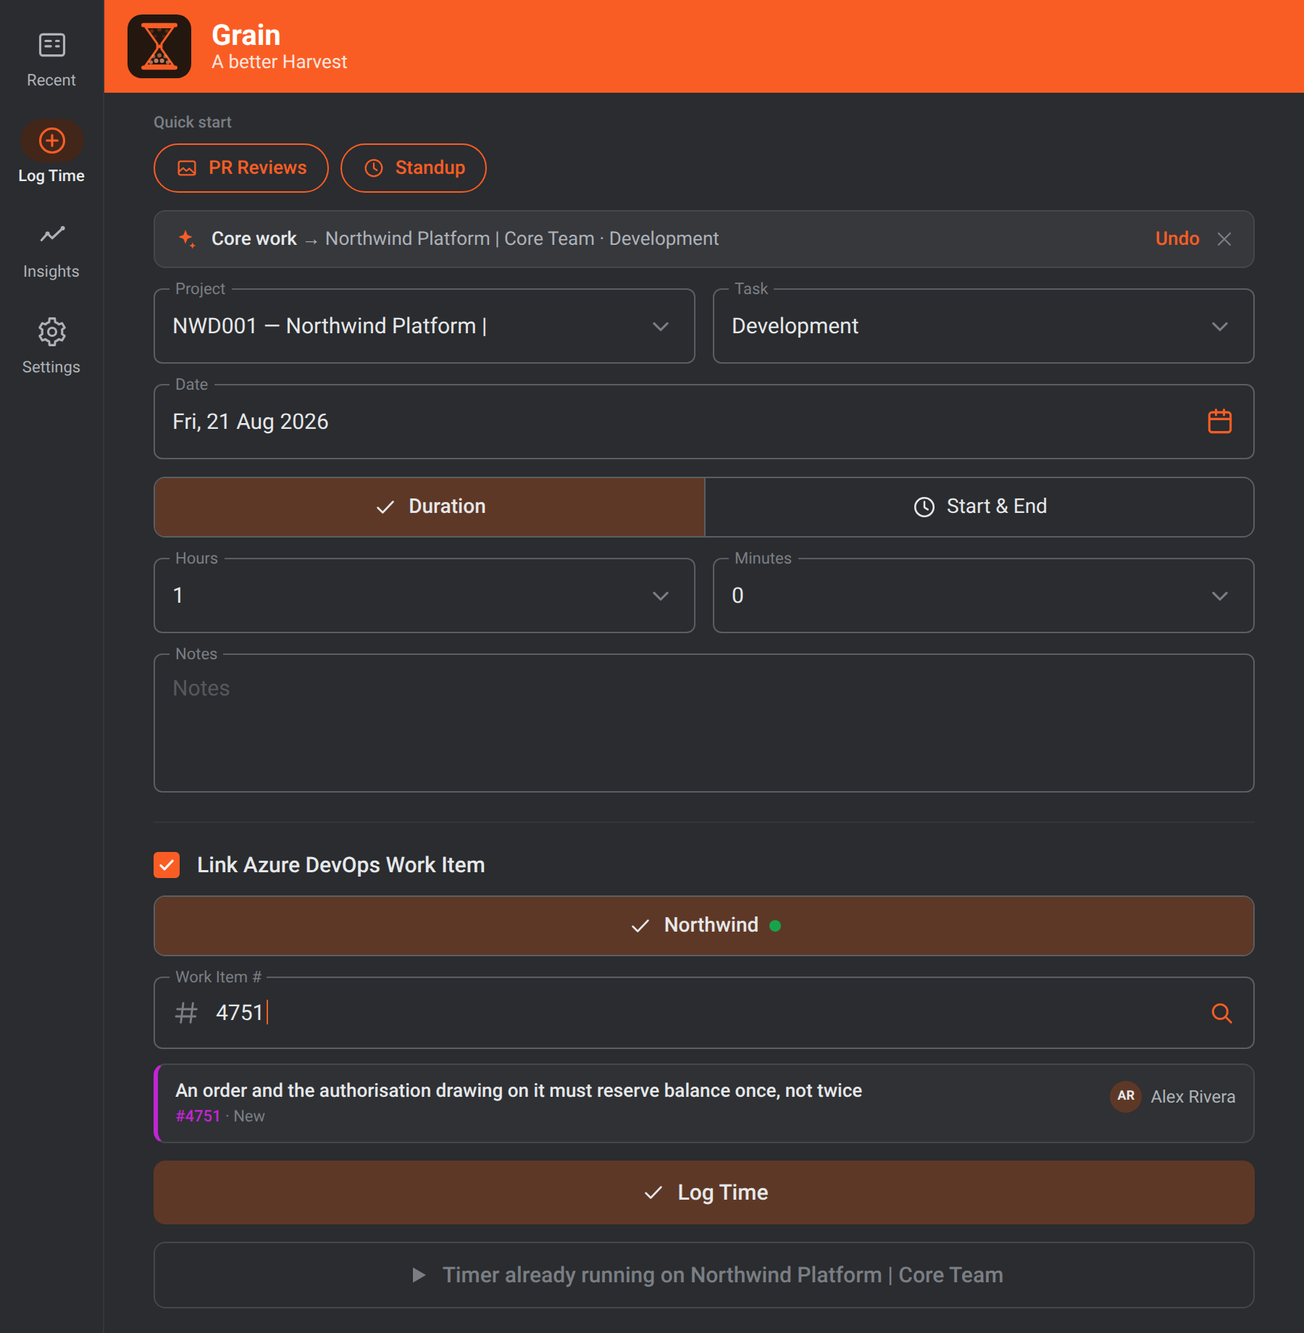
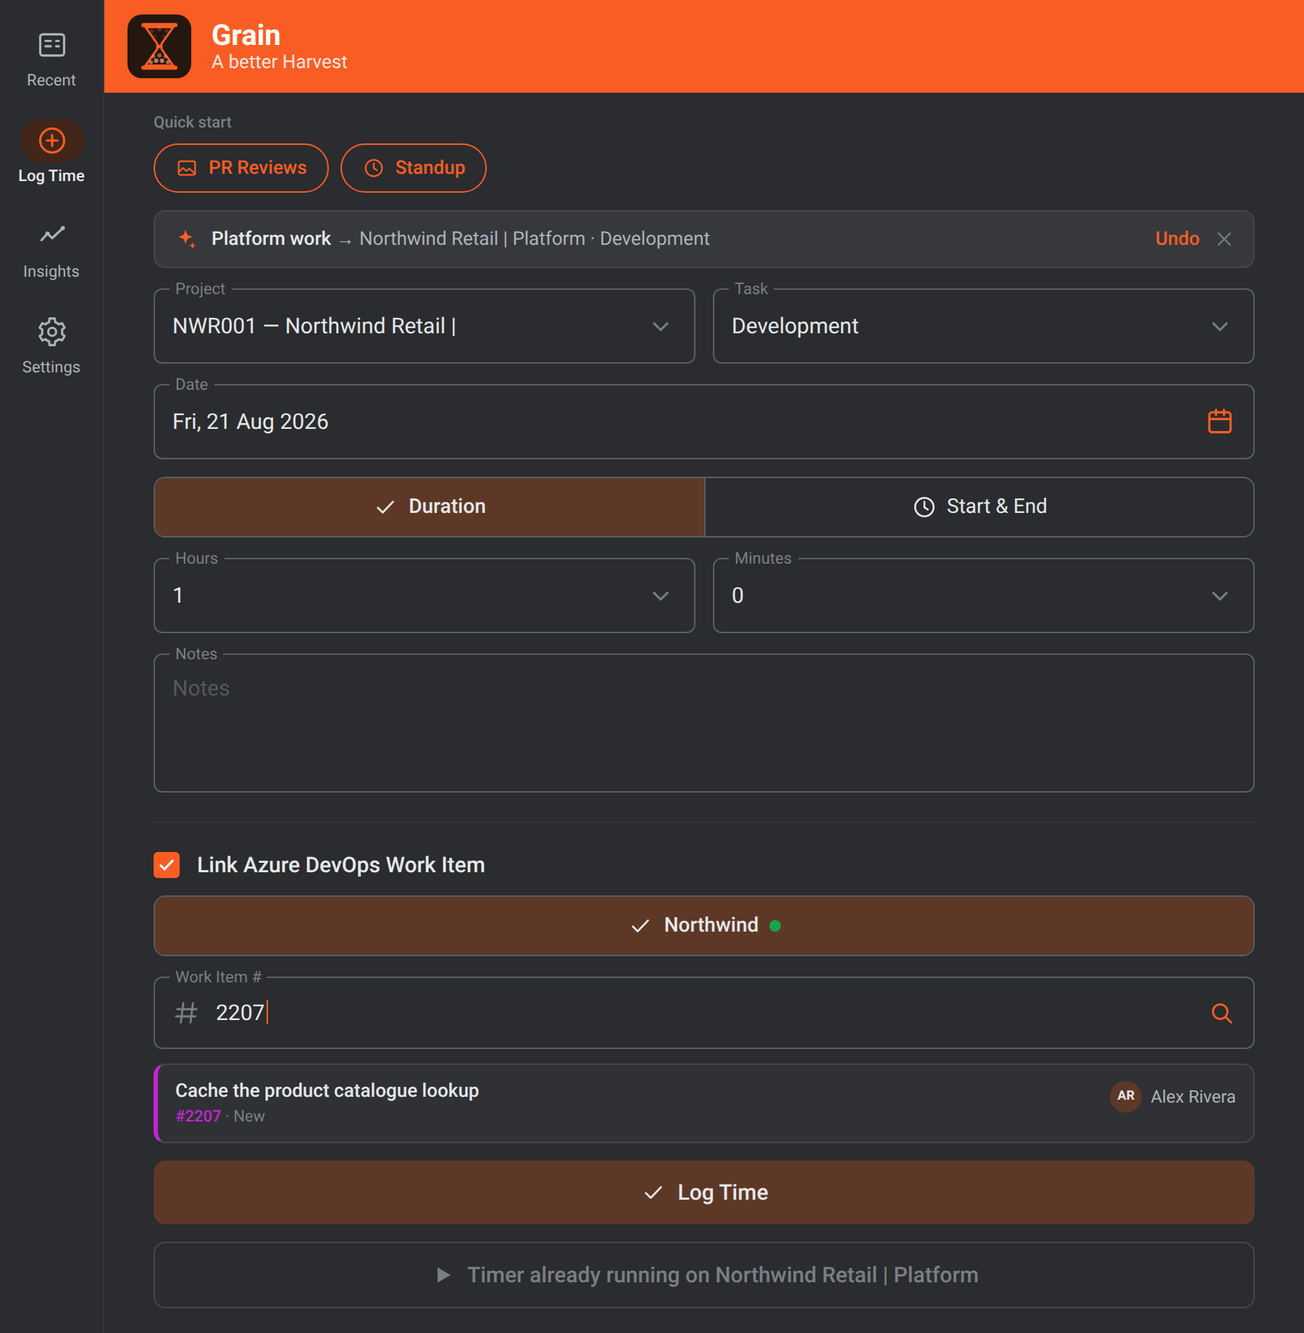
Replace the mockup data that was still traceable to a real account
The first pass paraphrased too lightly: several work item titles were the real
ones with only the client name dropped, the Harvest entry id was copied
verbatim, and the work item ids were the real ones minus a digit. The ADO
status chips, their counts, the iteration name and the week's logged hours
came straight from a capture too.

Rewrite all of it. New titles describe a generic retail app, ids are in an
unrelated range, and the picker now shows the vanilla Agile states rather than
a bespoke process (Design stays, since kDefaultExcludedStates names it in the
source). Recent and Insights also agree on the day's totals now, which they
did not before.

diff --git a/docs/mockups/recent.html b/docs/mockups/recent.html
@@ -31,11 +31,11 @@
 
         <div class="weekcard">
           <div class="days">
-            <div class="day"><div class="dow">MON</div><div class="num">17</div><div class="hrs">8h 31m</div><div class="daybar"><i style="width:100%"></i></div></div>
-            <div class="day"><div class="dow">TUE</div><div class="num">18</div><div class="hrs">9h 28m</div><div class="daybar"><i style="width:100%"></i></div></div>
-            <div class="day"><div class="dow">WED</div><div class="num">19</div><div class="hrs">10h 8m</div><div class="daybar"><i style="width:100%"></i></div></div>
-            <div class="day"><div class="dow">THU</div><div class="num">20</div><div class="hrs">11h</div><div class="daybar"><i style="width:100%"></i></div></div>
-            <div class="day sel"><div class="dow">FRI</div><div class="num">21</div><div class="hrs">3h 22m</div><div class="daybar"><i style="width:42%"></i></div></div>
+            <div class="day"><div class="dow">MON</div><div class="num">17</div><div class="hrs">8h 15m</div><div class="daybar"><i style="width:100%"></i></div></div>
+            <div class="day"><div class="dow">TUE</div><div class="num">18</div><div class="hrs">9h 05m</div><div class="daybar"><i style="width:100%"></i></div></div>
+            <div class="day"><div class="dow">WED</div><div class="num">19</div><div class="hrs">9h 40m</div><div class="daybar"><i style="width:100%"></i></div></div>
+            <div class="day"><div class="dow">THU</div><div class="num">20</div><div class="hrs">10h 30m</div><div class="daybar"><i style="width:100%"></i></div></div>
+            <div class="day sel"><div class="dow">FRI</div><div class="num">21</div><div class="hrs">6h 25m</div><div class="daybar"><i style="width:80%"></i></div></div>
             <div class="day off"><div class="dow">SAT</div><div class="num">22</div><div class="hrs">–</div><div class="daybar"></div></div>
             <div class="day off"><div class="dow">SUN</div><div class="num">23</div><div class="hrs">–</div><div class="daybar"></div></div>
           </div>
@@ -49,24 +49,24 @@
                 </svg>
               </div>
               <div class="beside">
-                <div class="tot">42h 29m</div>
+                <div class="tot">43h 55m</div>
                 <div class="of">of 40h</div>
               </div>
             </div>
             <div class="cap">THIS WEEK</div>
-            <div class="help">+2h 29m over</div>
+            <div class="help">+3h 55m over</div>
           </div>
         </div>
 
         <div class="card">
           <div class="pill running">2m<span class="badge"><svg class="i i-14" style="stroke-width:0"><use href="#ic-play-solid"/></svg></span></div>
           <div class="entry">
-            <div class="head"><span class="code cat-green">CORE</span><span class="task">Development</span></div>
-            <div class="notes">Northwind Azure DevOps Task #4732</div>
+            <div class="head"><span class="code cat-green">PLAT</span><span class="task">Development</span></div>
+            <div class="notes">Northwind Azure DevOps Task #2233</div>
             <div class="wichip">
               <div class="t">
-                <div class="title">Add retry handling to the settlement webhook receiver</div>
-                <div class="meta"><b>#4732</b> · <span class="st">In Progress</span> · Task</div>
+                <div class="title">Split the report export into a background job</div>
+                <div class="meta"><b>#2233</b> · <span class="st">Active</span> · Task</div>
               </div>
               <span class="avatar">AR</span>
               <span class="iconbtn" style="width:18px;height:18px;color:var(--text3)"><svg class="i i-14"><use href="#ic-external"/></svg></span>
@@ -81,7 +81,7 @@
         <div class="card">
           <div class="pill">45m</div>
           <div class="entry">
-            <div class="head"><span class="code cat-green">CORE</span><span class="task">Development</span></div>
+            <div class="head"><span class="code cat-green">PLAT</span><span class="task">Development</span></div>
             <div class="notes">PR Reviews</div>
           </div>
           <div class="actions">
@@ -93,12 +93,12 @@
         <div class="card">
           <div class="pill">35m</div>
           <div class="entry">
-            <div class="head"><span class="code cat-green">CORE</span><span class="task">Development</span></div>
-            <div class="notes">Northwind Azure DevOps User Story #4813</div>
+            <div class="head"><span class="code cat-green">PLAT</span><span class="task">Development</span></div>
+            <div class="notes">Northwind Azure DevOps User Story #2184</div>
             <div class="wichip">
               <div class="t">
-                <div class="title">Adopt the service layer as the default home for new backend business logic</div>
-                <div class="meta"><b>#4813</b> · <span class="st">In Progress</span> · User Story</div>
+                <div class="title">Improve checkout performance</div>
+                <div class="meta"><b>#2184</b> · <span class="st">Active</span> · User Story</div>
               </div>
               <span class="avatar">AR</span>
               <span class="iconbtn" style="width:18px;height:18px;color:var(--text3)"><svg class="i i-14"><use href="#ic-external"/></svg></span>
@@ -113,12 +113,12 @@
         <div class="card">
           <div class="pill">45m</div>
           <div class="entry">
-            <div class="head"><span class="code cat-green">CORE</span><span class="task">Development</span></div>
-            <div class="notes">Northwind Azure DevOps Task #4751</div>
+            <div class="head"><span class="code cat-green">PLAT</span><span class="task">Development</span></div>
+            <div class="notes">Northwind Azure DevOps Task #2207</div>
             <div class="wichip new">
               <div class="t">
-                <div class="title">An order and the authorisation drawing on it must reserve balance once, not twice</div>
-                <div class="meta"><b>#4751</b> · <span class="st">New</span> · Task</div>
+                <div class="title">Cache the product catalogue lookup</div>
+                <div class="meta"><b>#2207</b> · <span class="st">New</span> · Task</div>
               </div>
               <span class="avatar">AR</span>
               <span class="iconbtn" style="width:18px;height:18px;color:var(--text3)"><svg class="i i-14"><use href="#ic-external"/></svg></span>
@@ -133,8 +133,8 @@
         <div class="card">
           <div class="pill">15m</div>
           <div class="entry">
-            <div class="head"><span class="code cat-green">CORE</span><span class="task">Meetings</span></div>
-            <div class="notes">Release Planning | Northwind</div>
+            <div class="head"><span class="code cat-green">PLAT</span><span class="task">Meetings</span></div>
+            <div class="notes">Sprint planning</div>
           </div>
           <div class="actions">
             <span class="iconbtn"><svg class="i i-18"><use href="#ic-play"/></svg></span>
@@ -145,7 +145,7 @@
         <div class="card">
           <div class="pill">30m</div>
           <div class="entry">
-            <div class="head"><span class="code cat-cyan">SUPP</span><span class="task">Meetings</span></div>
+            <div class="head"><span class="code cat-cyan">HELP</span><span class="task">Meetings</span></div>
             <div class="notes">Support handover</div>
           </div>
           <div class="actions">
@@ -158,11 +158,11 @@
 
       <div class="dailybar">
         <div class="row">
-          <span class="tot">Total: 3h 22m</span>
-          <span class="exp">Expected: 3h 36m</span>
-          <span class="rem">4h 38m remaining</span>
+          <span class="tot">Total: 6h 25m</span>
+          <span class="exp">Expected: 6h 45m</span>
+          <span class="rem">1h 35m remaining</span>
         </div>
-        <div class="track"><i style="width:42%"></i><span class="tick" style="left:45%"></span></div>
+        <div class="track"><i style="width:80%"></i><span class="tick" style="left:84%"></span></div>
       </div>
     </div>
   </div>

diff --git a/docs/mockups/work-item-picker.html b/docs/mockups/work-item-picker.html
@@ -25,7 +25,7 @@
         <div class="eyebrow">Quick start</div>
         <div class="chiprow"><span class="tchip"><svg class="i i-16"><use href="#ic-image"/></svg>PR Reviews</span></div>
         <div class="pair">
-          <div class="field"><span class="lab">Project</span><span class="val">NWD001 — Northwind Platform |</span><svg class="i i-22" style="color:var(--text3)"><use href="#ic-caret"/></svg></div>
+          <div class="field"><span class="lab">Project</span><span class="val">NWR001 — Northwind Retail |</span><svg class="i i-22" style="color:var(--text3)"><use href="#ic-caret"/></svg></div>
           <div class="field"><span class="lab">Task</span><span class="val">Development</span><svg class="i i-22" style="color:var(--text3)"><use href="#ic-caret"/></svg></div>
         </div>
         <div class="field"><span class="lab">Date</span><span class="val">Fri, 21 Aug 2026</span><svg class="i i-22" style="color:var(--brand)"><use href="#ic-calendar"/></svg></div>
@@ -48,18 +48,15 @@
         <div class="search"><svg class="i i-20"><use href="#ic-search"/></svg>Search id, title, type, state or tag</div>
 
         <div class="states">
-          <span class="state on">All statuses <span class="n">48</span></span>
-          <span class="state">Awaiting PR <span class="n">13</span></span>
-          <span class="state">In Progress <span class="n">6</span></span>
-          <span class="state">New <span class="n">17</span></span>
-          <span class="state">QA Testing <span class="n">7</span></span>
-          <span class="state">Ready <span class="n">2</span></span>
-          <span class="state">Ready for QA <span class="n">3</span></span>
-          <span class="state">Design <span class="n">612</span></span>
+          <span class="state on">All statuses <span class="n">24</span></span>
+          <span class="state">New <span class="n">9</span></span>
+          <span class="state">Active <span class="n">11</span></span>
+          <span class="state">Resolved <span class="n">4</span></span>
+          <span class="state">Design <span class="n">137</span></span>
         </div>
 
         <div style="display:flex;align-items:center;gap:12px">
-          <span class="count">48 of 48 assigned to you · 612 Design hidden</span>
+          <span class="count">24 of 24 assigned to you · 137 Design hidden</span>
           <span class="viewtoggle">
             <div class="on"><svg class="i i-16"><use href="#ic-tree"/></svg>Tree</div>
             <div><svg class="i i-16"><use href="#ic-list"/></svg>Flat</div>
@@ -68,24 +65,24 @@
 
         <div style="margin-top:8px">
           <div class="wi">
-            <div class="title">Settle partner transactions end to end</div>
-            <div class="meta">#4179 &nbsp;User Story · In Progress · PI Planning 2, Refinement</div>
+            <div class="title">Improve checkout performance</div>
+            <div class="meta">#2184 &nbsp;User Story · Active · Sprint 14</div>
           </div>
           <div class="wi child">
-            <div class="title">Mark the order complete when the partner line item finalises</div>
-            <div class="meta">#4548 &nbsp;Task · New</div>
+            <div class="title">Add pagination to the customer list endpoint</div>
+            <div class="meta">#2201 &nbsp;Task · New</div>
           </div>
           <div class="wi child">
-            <div class="title">Release the over-held wallet funds when the order-complete webhook lands</div>
-            <div class="meta">#4839 &nbsp;Task · New</div>
+            <div class="title">Cache the product catalogue lookup</div>
+            <div class="meta">#2207 &nbsp;Task · New</div>
           </div>
           <div class="wi child">
-            <div class="title">Webhook receiver — single endpoint, signature check and event store</div>
-            <div class="meta">#4843 &nbsp;Task · In Progress</div>
+            <div class="title">Split the report export into a background job</div>
+            <div class="meta">#2233 &nbsp;Task · Active</div>
           </div>
           <div class="wi child">
-            <div class="title">Consignment and consignment_service webhook handlers</div>
-            <div class="meta">#4844 &nbsp;Task · In Progress</div>
+            <div class="title">Show a friendlier error when an upload times out</div>
+            <div class="meta">#2251 &nbsp;Task · Active</div>
           </div>
         </div>
 

diff --git a/docs/mockups/settings-rules.html b/docs/mockups/settings-rules.html
@@ -69,9 +69,9 @@
       <div class="rulecard">
         <svg class="i i-18" style="color:var(--text4)"><use href="#ic-drag"/></svg>
         <span class="t">
-          <span class="n">Core work</span>
-          <span class="c">Area path is under path "Northwind\Core"</span>
-          <span class="m">→ Northwind Platform | Core Team · Development</span>
+          <span class="n">Platform work</span>
+          <span class="c">Area path is under path "Northwind\Platform"</span>
+          <span class="m">→ Northwind Retail | Platform · Development</span>
         </span>
         <span class="toggle"><i></i></span>
         <svg class="i i-18" style="color:var(--text2)"><use href="#ic-pencil"/></svg>
@@ -81,8 +81,8 @@
         <svg class="i i-18" style="color:var(--text4)"><use href="#ic-drag"/></svg>
         <span class="t">
           <span class="n">Support</span>
-          <span class="c">Area path is under path "Northwind\Support" · Type is one of Bug, Issue</span>
-          <span class="m">→ Northwind Platform | Support Team · Development</span>
+          <span class="c">Area path is under path "Northwind\Helpdesk" · Type is one of Bug, Issue</span>
+          <span class="m">→ Northwind Retail | Helpdesk · Development</span>
         </span>
         <span class="toggle"><i></i></span>
         <svg class="i i-18" style="color:var(--text2)"><use href="#ic-pencil"/></svg>
@@ -102,7 +102,7 @@
         <span class="ic" style="width:26px;height:26px;border-radius:6px;display:grid;place-content:center;background:var(--brandTint);color:var(--brand)"><svg class="i i-16"><use href="#ic-image"/></svg></span>
         <span class="t">
           <span class="n">PR Reviews</span>
-          <span class="m">Northwind Platform | Core Team · Development</span>
+          <span class="m">Northwind Retail | Platform · Development</span>
           <span class="c">PR Reviews</span>
         </span>
         <span class="toggle"><i></i></span>
@@ -114,7 +114,7 @@
         <span class="ic" style="width:26px;height:26px;border-radius:6px;display:grid;place-content:center;background:var(--surface3);color:var(--stateDone)"><svg class="i i-16"><use href="#ic-clock"/></svg></span>
         <span class="t">
           <span class="n">Standup</span>
-          <span class="m">Northwind Platform | Core Team · Meetings</span>
+          <span class="m">Northwind Retail | Platform · Meetings</span>
           <span class="c">Daily standup</span>
         </span>
         <span class="toggle"><i></i></span>

diff --git a/docs/mockups/log-time.html b/docs/mockups/log-time.html
@@ -29,13 +29,13 @@
 
       <div class="banner">
         <svg class="i i-18" style="color:var(--brand)"><use href="#ic-sparkle"/></svg>
-        <span class="msg"><b>Core work</b> → Northwind Platform | Core Team · Development</span>
+        <span class="msg"><b>Platform work</b> → Northwind Retail | Platform · Development</span>
         <span class="undo">Undo</span>
         <svg class="i i-16" style="color:var(--text3)"><use href="#ic-close"/></svg>
       </div>
 
       <div class="pair">
-        <div class="field"><span class="lab">Project</span><span class="val">NWD001 — Northwind Platform |</span><svg class="i i-22" style="color:var(--text3)"><use href="#ic-caret"/></svg></div>
+        <div class="field"><span class="lab">Project</span><span class="val">NWR001 — Northwind Retail |</span><svg class="i i-22" style="color:var(--text3)"><use href="#ic-caret"/></svg></div>
         <div class="field"><span class="lab">Task</span><span class="val">Development</span><svg class="i i-22" style="color:var(--text3)"><use href="#ic-caret"/></svg></div>
       </div>
 
@@ -65,20 +65,20 @@
       <div class="field">
         <span class="lab">Work Item #</span>
         <svg class="i i-20" style="color:var(--text3)"><use href="#ic-hash"/></svg>
-        <span class="val">4751<span class="caret"></span></span>
+        <span class="val">2207<span class="caret"></span></span>
         <svg class="i i-20" style="color:var(--brand)"><use href="#ic-search"/></svg>
       </div>
 
       <div class="preview" style="border-left-color:var(--stateNew)">
         <div class="t">
-          <div class="title">An order and the authorisation drawing on it must reserve balance once, not twice</div>
-          <div class="meta"><b style="color:var(--stateNew)">#4751</b> · New</div>
+          <div class="title">Cache the product catalogue lookup</div>
+          <div class="meta"><b style="color:var(--stateNew)">#2207</b> · New</div>
         </div>
         <span class="who"><span class="avatar">AR</span>Alex Rivera</span>
       </div>
 
       <div class="btn filled"><svg class="i i-18"><use href="#ic-check"/></svg>Log Time</div>
-      <div class="btn ghost"><svg class="i i-18"><use href="#ic-play-solid"/></svg>Timer already running on Northwind Platform | Core Team</div>
+      <div class="btn ghost"><svg class="i i-18"><use href="#ic-play-solid"/></svg>Timer already running on Northwind Retail | Platform</div>
 
       <div style="height:20px"></div>
     </div></div></div>

diff --git a/docs/mockups/edit-time.html b/docs/mockups/edit-time.html
@@ -20,11 +20,11 @@
         <span class="pill running" style="width:38px;height:38px;flex:0 0 38px;font-size:11px">5m<span class="badge" style="width:13px;height:13px"><svg class="i i-14" style="stroke-width:0"><use href="#ic-play-solid"/></svg></span></span>
         <div>
           <div class="lab">TIMER RUNNING</div>
-          <div class="id">#2993416935 · Fri 21 Aug 2026</div>
+          <div class="id">#1234567890 · Fri 21 Aug 2026</div>
         </div>
       </div>
 
-      <div class="field"><span class="lab">Project</span><span class="val">NWD001 — Northwind Platform | Core Team</span><svg class="i i-22" style="color:var(--text3)"><use href="#ic-caret"/></svg></div>
+      <div class="field"><span class="lab">Project</span><span class="val">NWR001 — Northwind Retail | Platform</span><svg class="i i-22" style="color:var(--text3)"><use href="#ic-caret"/></svg></div>
       <div class="field"><span class="lab">Task</span><span class="val">Development</span><svg class="i i-22" style="color:var(--text3)"><use href="#ic-caret"/></svg></div>
       <div class="field"><span class="lab">Date</span><span class="val">Fri, 21 Aug 2026</span><svg class="i i-22" style="color:var(--brand)"><use href="#ic-calendar"/></svg></div>
 
@@ -37,7 +37,7 @@
         <span class="stop"><svg class="i i-16"><use href="#ic-stop-solid"/></svg>Stop</span>
       </div>
 
-      <div class="field tall"><span class="lab">Notes</span><span class="val">Northwind Azure DevOps Task #4732</span></div>
+      <div class="field tall"><span class="lab">Notes</span><span class="val">Northwind Azure DevOps Task #2233</span></div>
 
       <div class="divider"></div>
 
@@ -51,14 +51,14 @@
       <div class="field">
         <span class="lab">Work Item #</span>
         <svg class="i i-20" style="color:var(--text3)"><use href="#ic-hash"/></svg>
-        <span class="val">4732</span>
+        <span class="val">2233</span>
         <svg class="i i-20" style="color:var(--brand)"><use href="#ic-search"/></svg>
       </div>
 
       <div class="preview">
         <div class="t">
-          <div class="title">Add retry handling to the settlement webhook receiver</div>
-          <div class="meta"><b>#4732</b> · In Progress</div>
+          <div class="title">Split the report export into a background job</div>
+          <div class="meta"><b>#2233</b> · Active</div>
         </div>
         <span class="who"><span class="avatar">AR</span>Alex Rivera</span>
       </div>

diff --git a/docs/mockups/insights.html b/docs/mockups/insights.html
@@ -37,15 +37,15 @@
       <div class="subhead">Where it went</div>
 
       <div class="brow cat-green">
-        <div class="top"><span class="swatch"></span><span class="name">Northwind Platform | Core Team · Development</span><span class="amt">4h 20m</span></div>
+        <div class="top"><span class="swatch"></span><span class="name">Northwind Retail | Platform · Development</span><span class="amt">4h 20m</span></div>
         <div class="bar"><i style="width:100%"></i></div>
       </div>
       <div class="brow cat-green">
-        <div class="top"><span class="swatch"></span><span class="name">Northwind Platform | Core Team · Meetings</span><span class="amt">1h 15m</span></div>
+        <div class="top"><span class="swatch"></span><span class="name">Northwind Retail | Platform · Meetings</span><span class="amt">1h 15m</span></div>
         <div class="bar"><i style="width:29%"></i></div>
       </div>
       <div class="brow cat-cyan">
-        <div class="top"><span class="swatch"></span><span class="name">Northwind Platform | Support Team · Meetings</span><span class="amt">50m</span></div>
+        <div class="top"><span class="swatch"></span><span class="name">Northwind Retail | Helpdesk · Meetings</span><span class="amt">50m</span></div>
         <div class="bar"><i style="width:19%"></i></div>
       </div>
 

diff --git a/docs/mockups/settings-appearance.html b/docs/mockups/settings-appearance.html
@@ -28,7 +28,7 @@
       <div class="divider"></div>
 
       <div class="section" style="margin-top:0">Default Project</div>
-      <div class="field"><span class="lab">Default Project</span><span class="val">NWD001 — Northwind Platform | Core Team</span><svg class="i i-22" style="color:var(--text3)"><use href="#ic-caret"/></svg></div>
+      <div class="field"><span class="lab">Default Project</span><span class="val">NWR001 — Northwind Retail | Platform</span><svg class="i i-22" style="color:var(--text3)"><use href="#ic-caret"/></svg></div>
       <div class="field"><span class="lab">Default Task</span><span class="val">Development</span><svg class="i i-22" style="color:var(--text3)"><use href="#ic-caret"/></svg></div>
       <div class="hint">Pre-selected on the Log Time screen when the app loads.</div>
 
